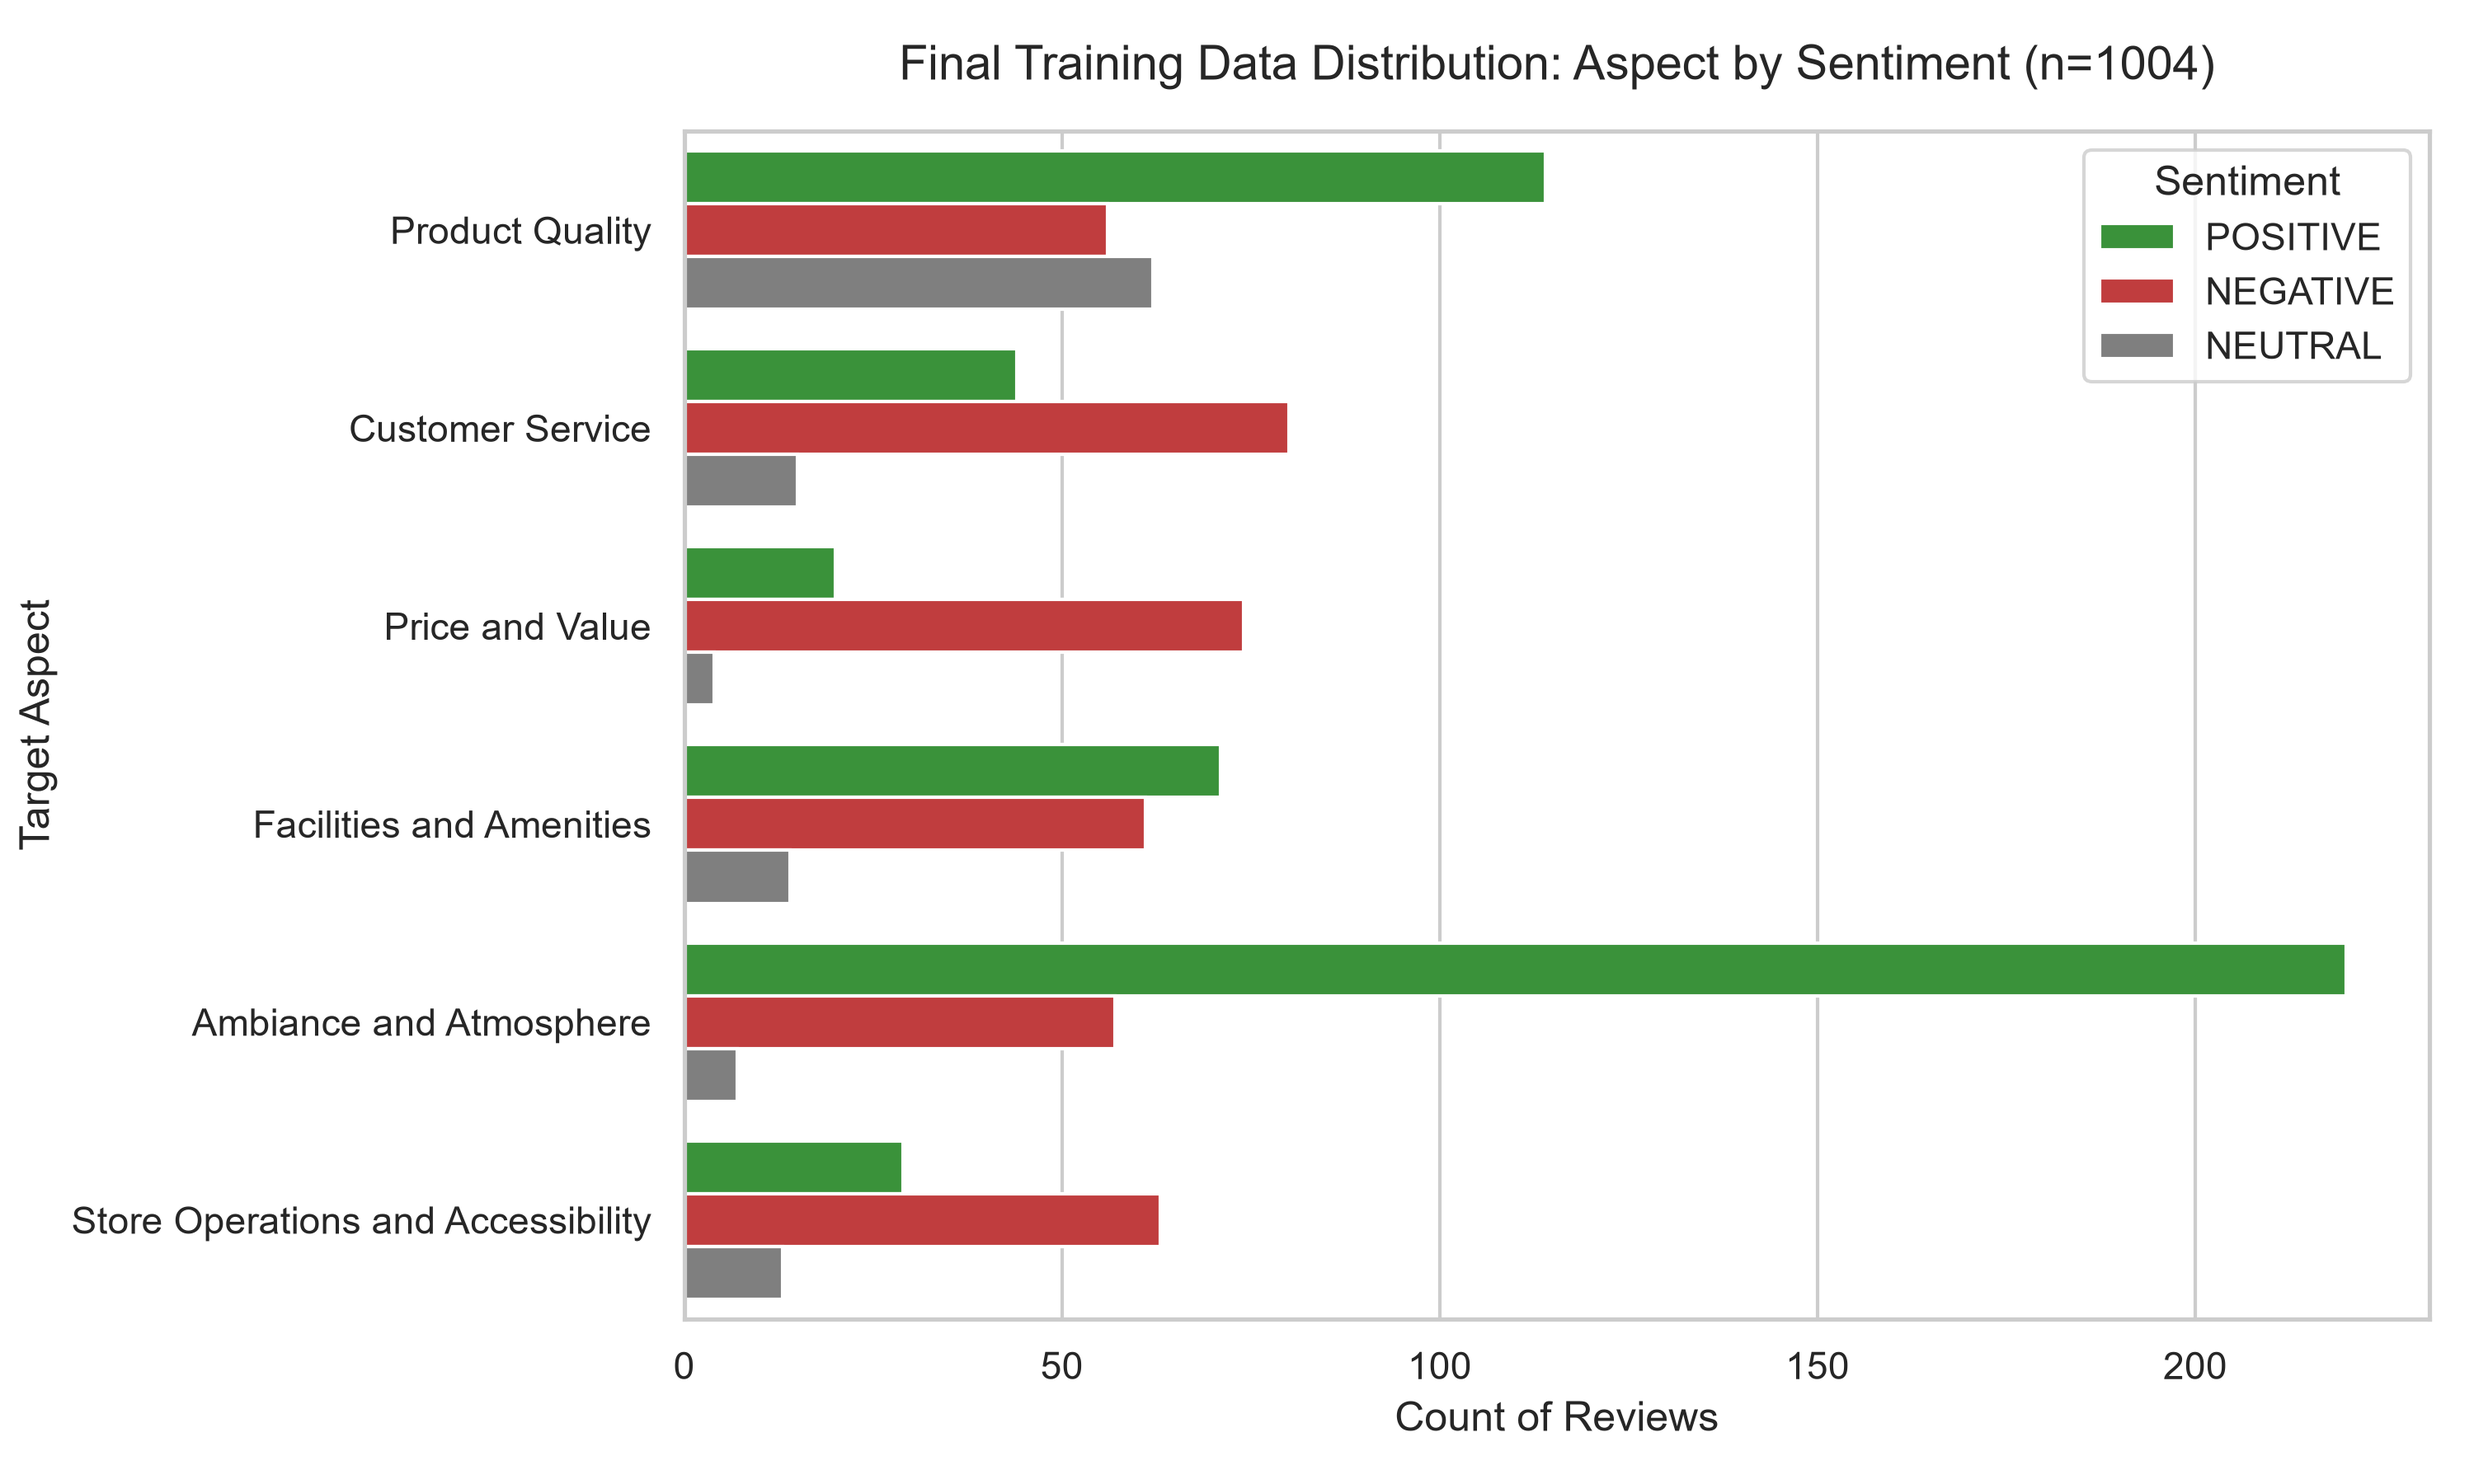
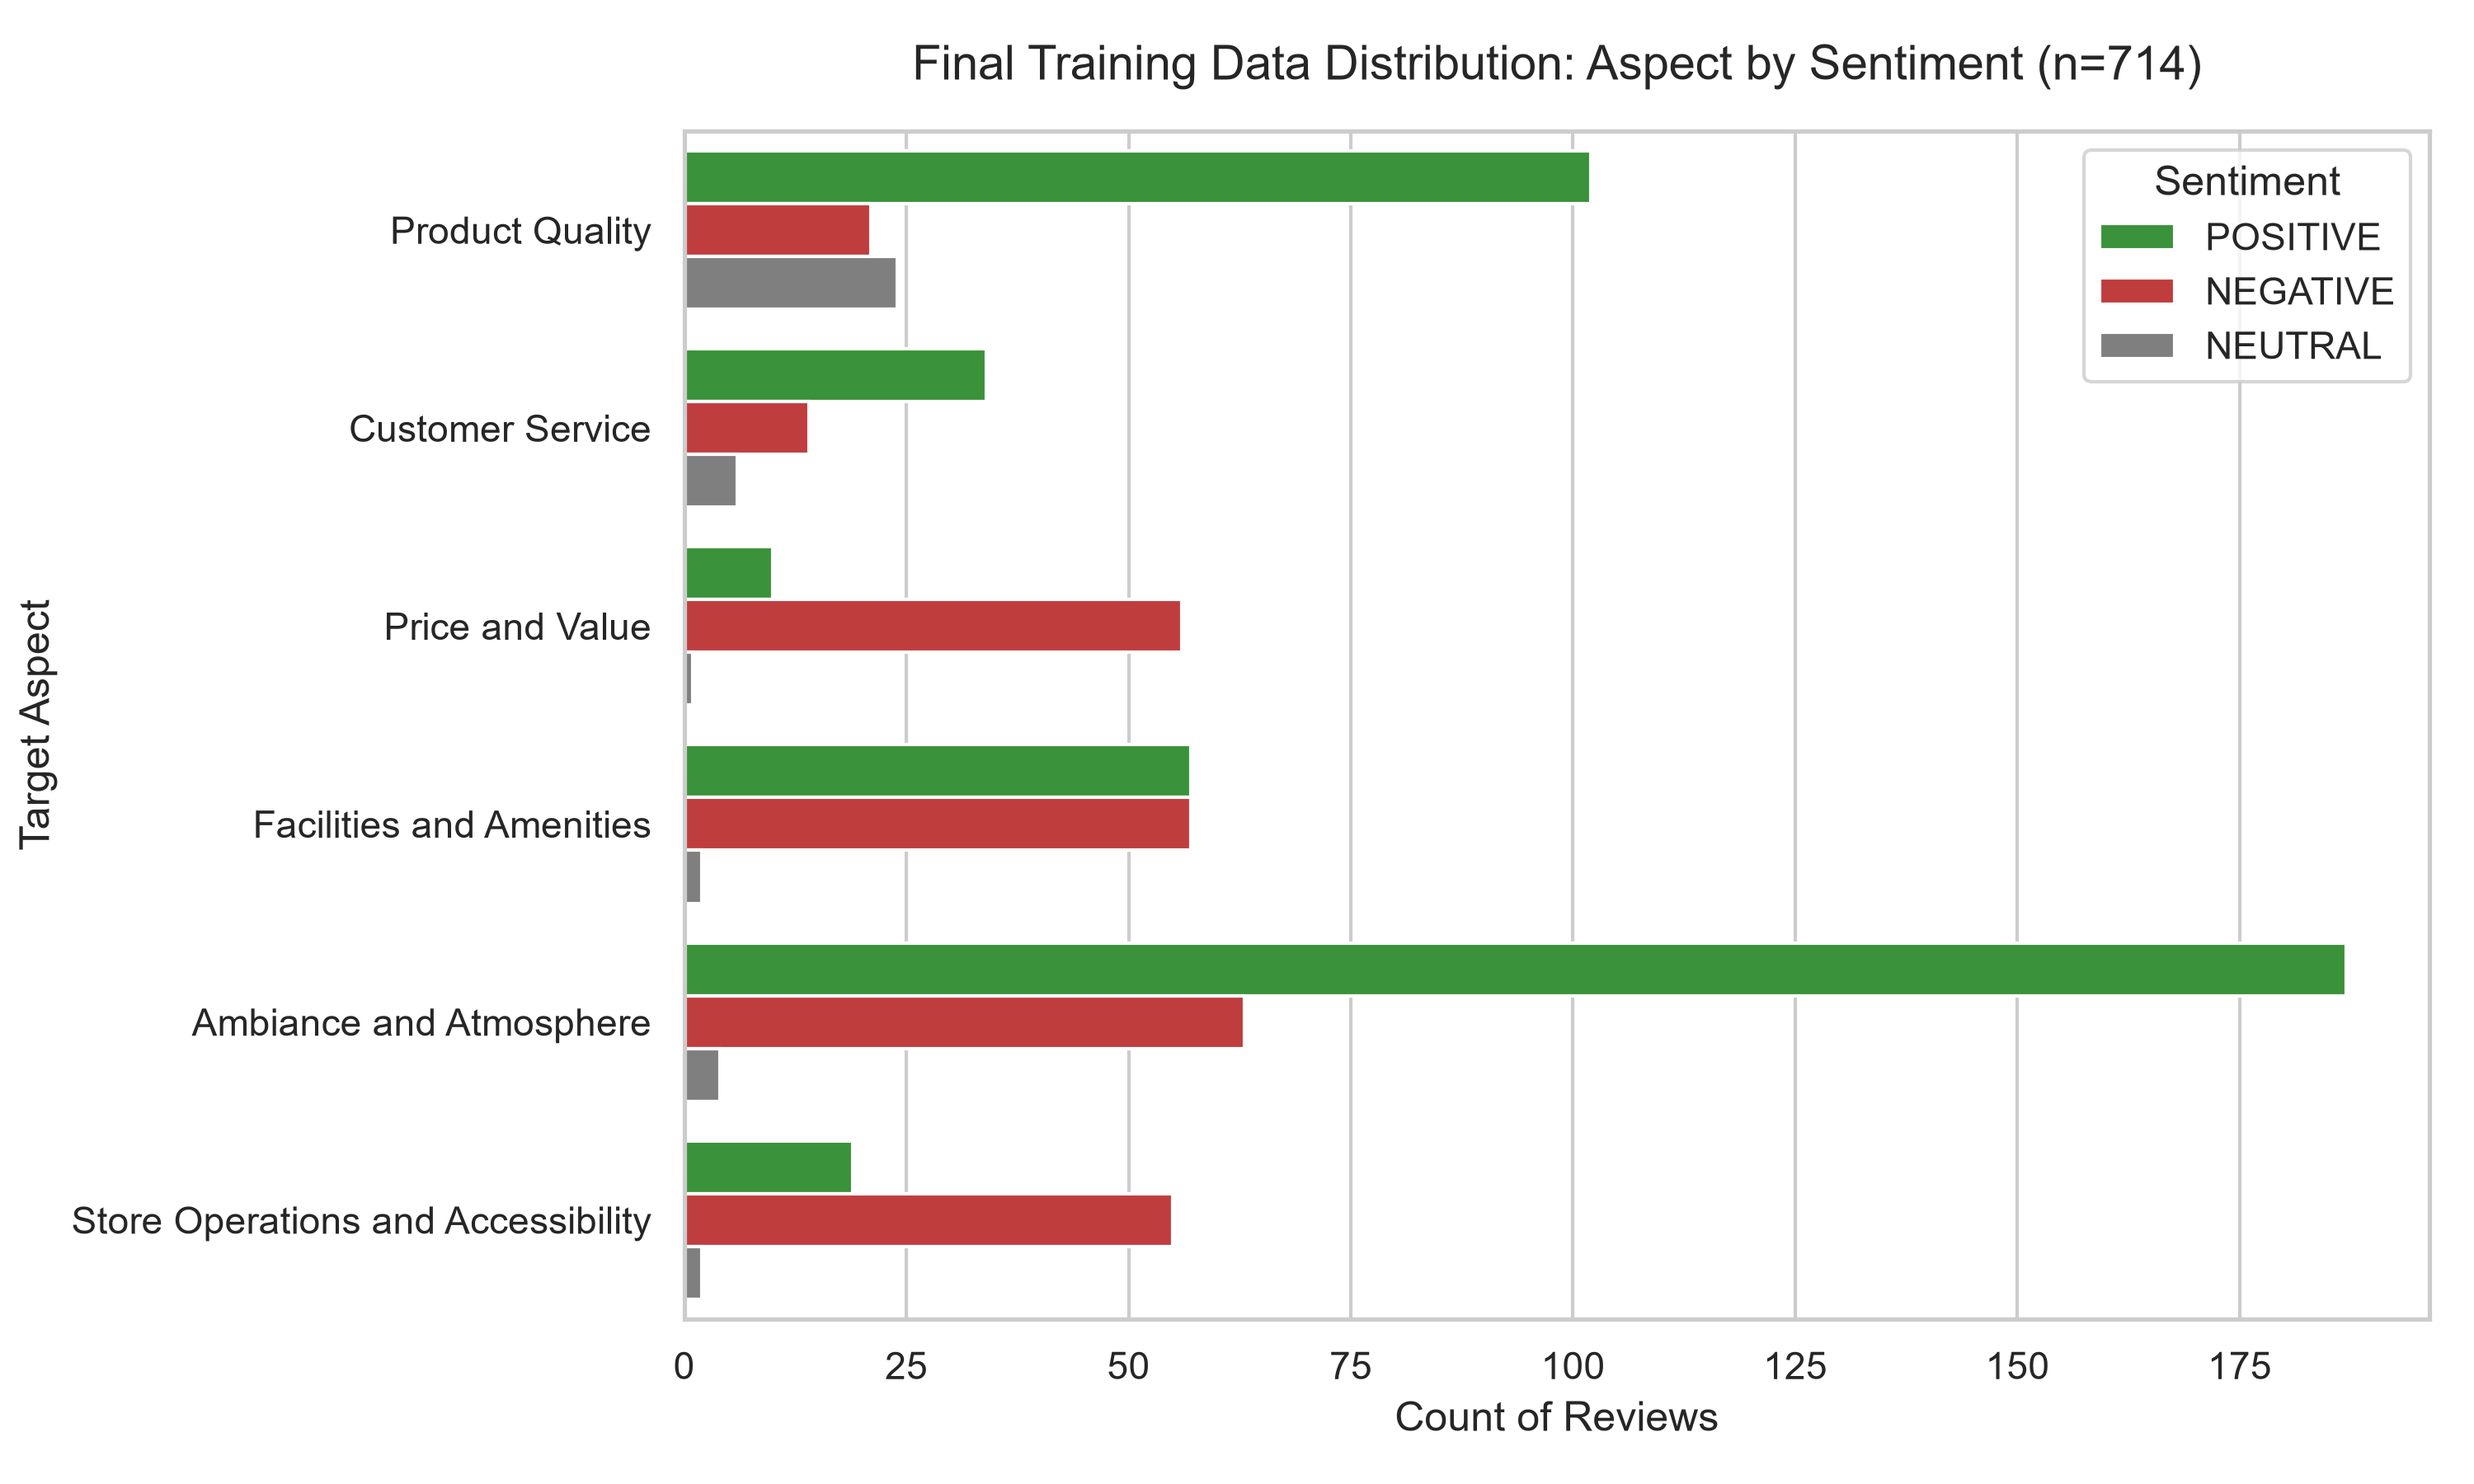
feat: finalization of phase 6

diff --git a/_6_Active_Learning_w_Human_Annotation/eda_phase6.py b/_6_Active_Learning_w_Human_Annotation/eda_phase6.py
@@ -65,8 +65,8 @@ def main():
 
     print("\n--- 2. Ground Truth Distribution (500 Rows) ---")
     # Change to Cumulative_Ground_Truth_1000.csv if you want the 1,000-row version
-    #gt_file = 'Cumulative_Ground_Truth_500.csv'
-    gt_file = 'v2_Ground_Truth_500.csv'
+    gt_file = 'Augmented_Ground_Truth_714.csv'
+    #gt_file = 'v2_Ground_Truth_500.csv'
     
     if not os.path.exists(gt_file):
         print(f"Error: {gt_file} not found.")
